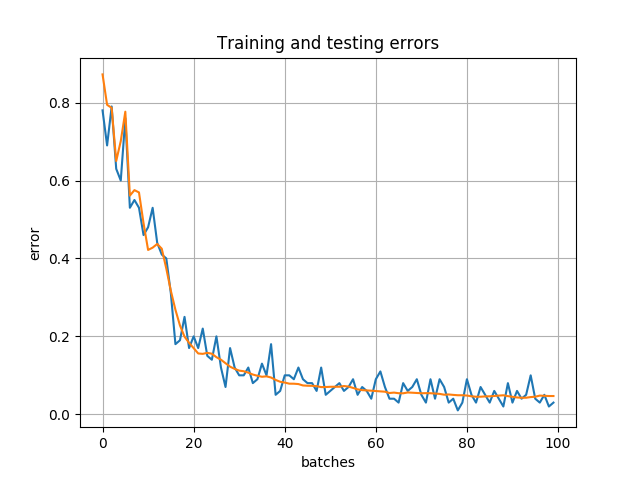
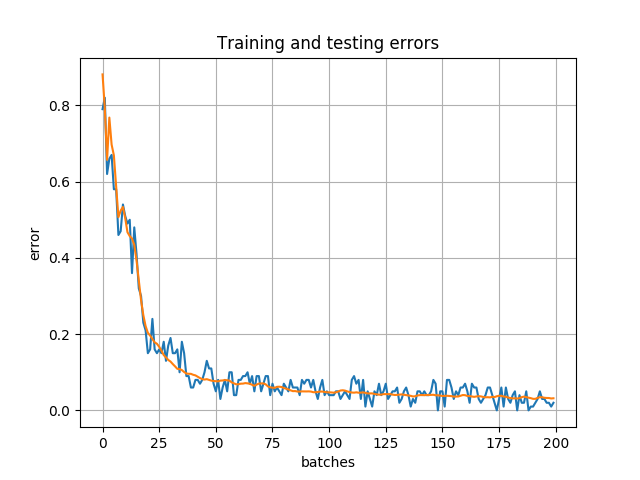
200 batches

diff --git a/COGS181/hw4/conve_net_v1.py b/COGS181/hw4/conve_net_v1.py
@@ -93,7 +93,7 @@ total_batch = int(mnist.train.num_examples/batch_size)
 print (total_batch)
 counter = 0
 for epoch in range(1):
-  for i in range(100):
+  for i in range(200):
     counter += 1
     batch = mnist.train.next_batch(batch_size)
     train_step.run(feed_dict={x: batch[0], y_: batch[1], keep_prob: 0.5})
